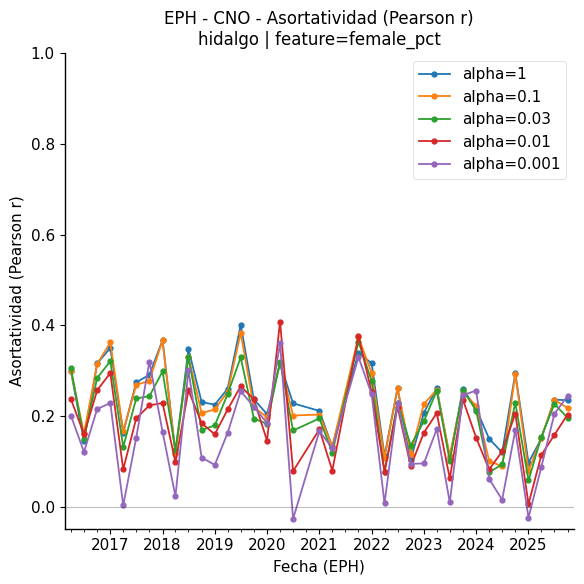
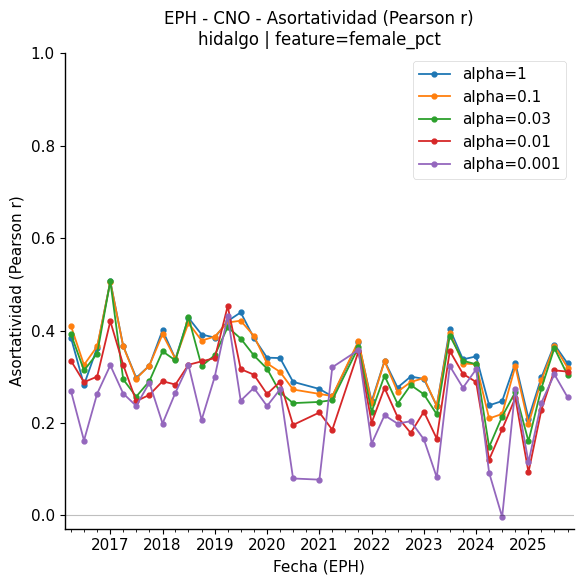
Update script 10 to use female_pct per year

diff --git a/scripts/10_edge_weight_correlation_eph.py b/scripts/10_edge_weight_correlation_eph.py
@@ -50,49 +50,80 @@ def main() -> None:
 		)
 
 	eph_files_sorted = utils.sort_eph_files(eph_files)
+	wave_year_key: dict[str, str] = {}
+	wave_time_meta: dict[str, tuple[float, pd.Timestamp, str]] = {}
+
+	fallback_idx = 0
+	for eph_file in eph_files_sorted:
+		key = utils.parse_eph_file_key(eph_file)
+		if key is None:
+			# Fallback: keep wave-level ordering and isolate unparsed files in their own pseudo-year buckets.
+			year = 2000 + fallback_idx // 4
+			period = 1 + (fallback_idx % 4)
+			time_date = pd.Timestamp(utils.eph_quarter_start_date(year, period))
+			time_num = float(year) + float(period - 1) / 4.0
+			lbl = eph_file
+			year_key = f"UNPARSED::{eph_file}"
+			fallback_idx += 1
+		else:
+			time_num = key.time_numeric
+			lbl = key.label
+			time_date = pd.Timestamp(key.time_date)
+			year_key = str(key.year)
+
+		wave_year_key[eph_file] = year_key
+		wave_time_meta[eph_file] = (time_num, time_date, lbl)
+
+	year_to_waves: dict[str, list[str]] = {}
+	for eph_file in eph_files_sorted:
+		yk = wave_year_key[eph_file]
+		year_to_waves.setdefault(yk, []).append(eph_file)
+
+	yearly_feature_map: dict[str, dict[Any, float]] = {}
+	yearly_feature_summary: dict[str, dict[str, Any]] = {}
+	for year_key, waves in year_to_waves.items():
+		yearly_frames = []
+		for eph_file in waves:
+			processed_path = eph_to_processed[eph_file]
+			df_wave = pd.read_csv(processed_path)
+			if id_col not in df_wave.columns:
+				raise KeyError(f"Missing group id column '{id_col}' in {processed_path}.")
+			yearly_frames.append(df_wave)
+
+		df_year = pd.concat(yearly_frames, ignore_index=True)
+		features_df = nc.compute_group_characteristics(df_year, col_group=id_col)
+		if feature not in features_df.columns:
+			raise KeyError(
+				f"Feature '{feature}' not found in computed characteristics for year {year_key}. "
+				f"Available columns include: {', '.join(features_df.columns[:10])}..."
+			)
+
+		yearly_feature_map[year_key] = features_df[feature].to_dict()
+		yearly_feature_summary[year_key] = {
+			"wave_count": len(waves),
+			"row_count": len(df_year),
+			"group_count": int(df_year[id_col].nunique(dropna=True)),
+			"feature_non_null": int(pd.to_numeric(features_df[feature], errors="coerce").notna().sum()),
+		}
 
 	alphas = [1.0, 0.1, 0.03, 1e-2, 1e-3]
 	x_dates = []
 
 	rows = []
 	projection_metrics = {}
-	fallback_idx = 0
 
 	for eph_file in eph_files_sorted:
-		key = utils.parse_eph_file_key(eph_file)
-		if key is None:
-			# Fallback: create synthetic quarterly slots after a base date.
-			year = 2000 + fallback_idx // 4
-			period = 1 + (fallback_idx % 4)
-			time_date = pd.Timestamp(utils.eph_quarter_start_date(year, period))
-			time_num = float(year) + float(period - 1) / 4.0
-			lbl = eph_file
-			fallback_idx += 1
-		else:
-			time_num = key.time_numeric
-			lbl = key.label
-			time_date = pd.Timestamp(key.time_date)
+		time_num, time_date, lbl = wave_time_meta[eph_file]
+		year_key = wave_year_key[eph_file]
 
 		x_dates.append(time_date)
 
 		projection_path = eph_to_projection[eph_file]
-		processed_path = eph_to_processed[eph_file]
 
 		projection = nx.read_gexf(projection_path, node_type=int)
 		projection_metrics[eph_file] = metrics.summarize_graph(projection)
 
-		df = pd.read_csv(processed_path)
-		if id_col not in df.columns:
-			raise KeyError(f"Missing group id column '{id_col}' in {processed_path}.")
-
-		features_df = nc.compute_group_characteristics(df, col_group=id_col)
-		if feature not in features_df.columns:
-			raise KeyError(
-				f"Feature '{feature}' not found in computed characteristics for {processed_path}. "
-				f"Available columns include: {', '.join(features_df.columns[:10])}..."
-			)
-
-		feature_map = features_df[feature].to_dict()
+		feature_map = yearly_feature_map[year_key]
 
 		# Compute assortativity (unfiltered)
 		r_unf, p_unf, n_unf = pl.compute_edge_assortativity_pearson(
@@ -220,6 +251,24 @@ def main() -> None:
 		k = utils.parse_eph_file_key(eph_file)
 		lbl = k.label if k else eph_file
 		log_lines.append(f"  {j:>3d}. {eph_file} -> {lbl}")
+
+	log_lines.append("")
+	log_lines.append("WAVE TO YEARLY FEATURE MAP:")
+	for eph_file in eph_files_sorted:
+		year_key = wave_year_key[eph_file]
+		log_lines.append(f"  - {eph_file}: feature_year={year_key}")
+
+	log_lines.append("")
+	log_lines.append("YEARLY FEATURE MAP SUMMARY:")
+	for year_key in sorted(year_to_waves.keys()):
+		s = yearly_feature_summary.get(year_key, {})
+		log_lines.append(
+			"  - "
+			+ f"{year_key}: waves={s.get('wave_count', 'NA')}, "
+			+ f"rows={s.get('row_count', 'NA')}, "
+			+ f"unique_groups={s.get('group_count', 'NA')}, "
+			+ f"feature_non_null={s.get('feature_non_null', 'NA')}"
+		)
 
 	log_lines.append("")
 	log_lines.append("PER-FILE PROJECTION METRICS (unfiltered):")
